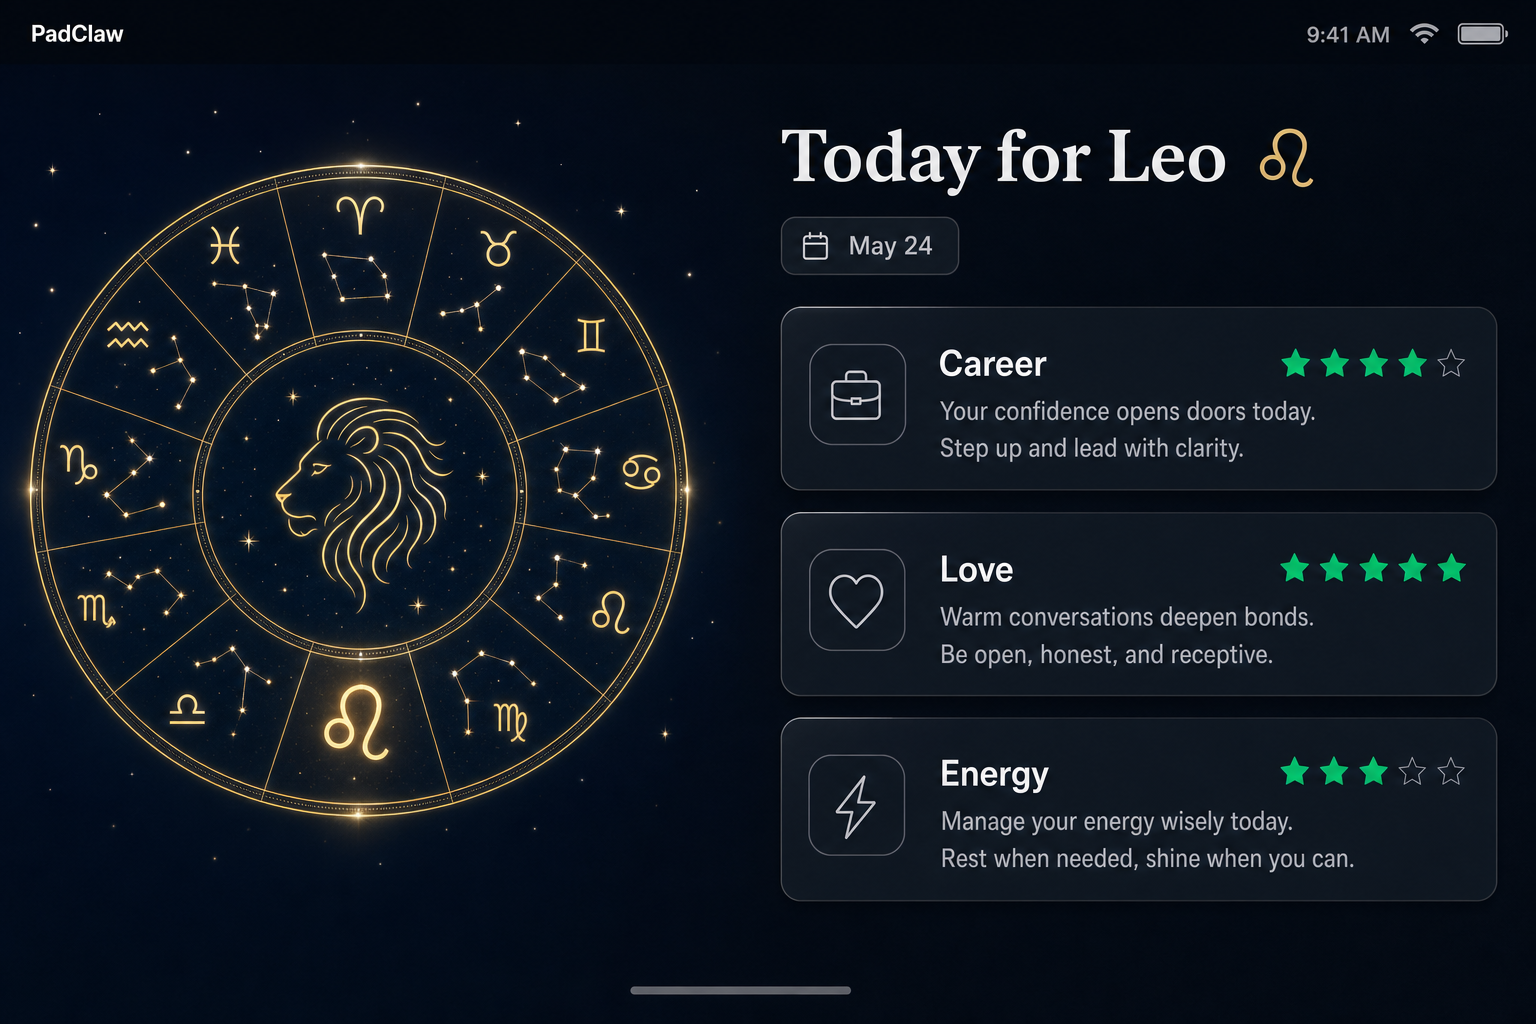
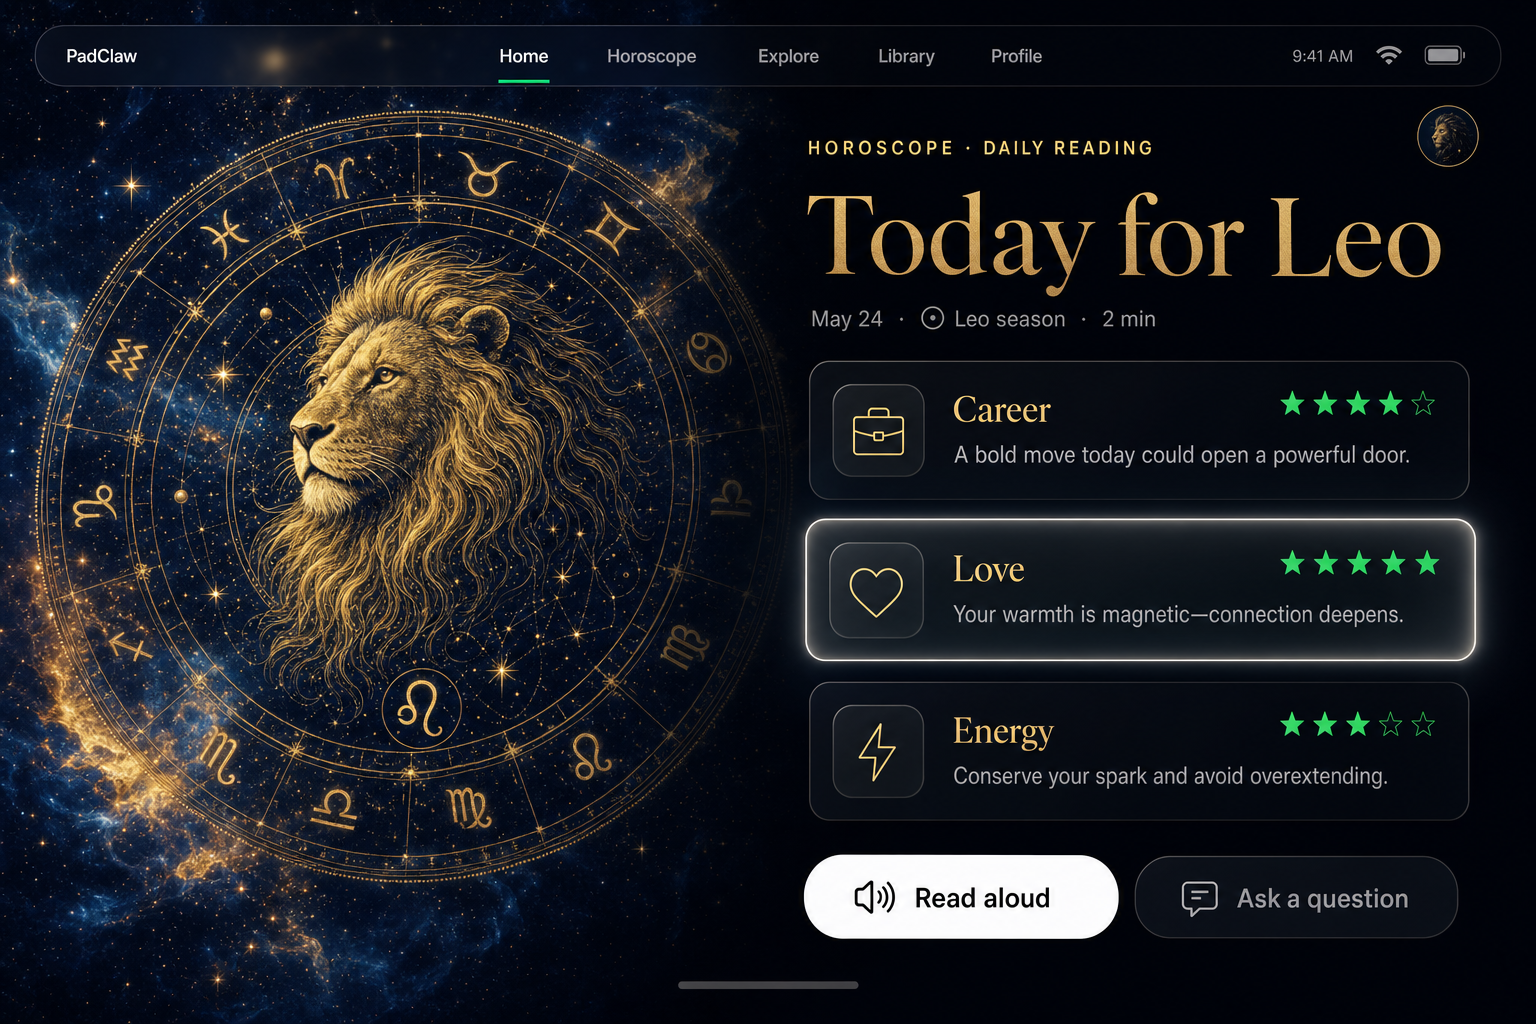
Rebuild browsing surfaces in Netflix/tvOS design language
- ui-launcher: cinematic billboard (featured morning briefing) + YOUR CHANNELS
  shelf with tvOS focus treatment + frosted tab bar + COMING SOON row peek
- ui-launcher-focus (new, 15th screen): focus-interaction spec — 112% scale,
  specular edge, revealed metadata, ambient gold glow response
- ui-astro-daily / ui-weather-brief / ui-learning-home: full-bleed artwork,
  gradient scrims, glass cards, hourly shelf with focus underline
- 2 screens regenerated after first pass drifted into movie-streaming content
  (fake film billboard, Movies/Live TV tabs) — brand rule enforced in prompts
- Design tokens: new Focus Model card (billboard/shelf/scrim/ambient specs,
  browsing-vs-task surface split)

diff --git a/app-screens.html b/app-screens.html
@@ -51,7 +51,7 @@
 <body>
 <div class="wrap">
   <h1>APP 介面與功能細節總覽</h1>
-  <p class="sub">PadClaw 裝置端軟體的 <strong>14 個核心畫面</strong>，以純 UI mockup 呈現（規劃中軟體 · planned software）。設計語言：深炭底 <strong>#111418</strong>、品牌綠 <strong>#05CE78</strong>、超大字級與大型觸控目標（senior-friendly）、每個畫面只做一件事。</p>
+  <p class="sub">PadClaw 裝置端軟體的 <strong>15 個核心畫面</strong>，以純 UI mockup 呈現（規劃中軟體 · planned software）。設計語言分兩層：<strong>瀏覽型畫面比照 Netflix／Apple tvOS</strong>（billboard 大看板、shelf 卡列、焦點放大＋高光的 focus model、毛玻璃 chrome），<strong>任務型畫面</strong>維持深炭底、品牌綠 <strong>#05CE78</strong>、超大字級的單任務設計（senior-friendly）。</p>
   <div class="toc">
     <a href="#s-ds">設計規範</a>
     <a href="#s-core">01 系統核心</a>
@@ -101,6 +101,17 @@
         </table>
       </div>
       <div class="ds-card">
+        <h4>Focus Model（比照 tvOS / 串流平台）</h4>
+        <table>
+          <tr><td>焦點卡</td><td>放大 110% · 2px 白色高光邊 · 深柔陰影＋微光暈；鄰卡降至 70% 亮度並輕微去飽和</td></tr>
+          <tr><td>Billboard</td><td>首頁頂部 55% 為全幅大看板：作品級圖像＋左下漸層 scrim 承載標籤／標題／主按鈕</td></tr>
+          <tr><td>Shelf</td><td>橫向卡列 · 13px ALL-CAPS 列標題 · 內容圖像即介面，chrome 退居半透明</td></tr>
+          <tr><td>Scrim</td><td>圖上文字一律墊底部黑色漸層；頂部 tab 列用毛玻璃</td></tr>
+          <tr><td>Ambient glow</td><td>背景隨焦點內容染色（tvOS ambient 反應）</td></tr>
+          <tr><td>適用範圍</td><td><strong>瀏覽型畫面</strong>（launcher／頻道首頁）用串流語言；<strong>任務型畫面</strong>（簽到／用藥／隱私）維持大字單任務——不做成海報牆</td></tr>
+        </table>
+      </div>
+      <div class="ds-card">
         <h4>Principles</h4>
         <table>
           <tr><td>一屏一事</td><td>每畫面只有一個主要動作；永不出現第二層選單</td></tr>
@@ -121,7 +132,7 @@
     <div class="screen">
       <div class="scr-media"><div class="frame"><img loading="lazy" src="web-ui-welcome.jpg" alt="Welcome screen"></div></div>
       <div class="scr-copy">
-        <div class="scr-kicker">Core 1/5 · 首次開機</div>
+        <div class="scr-kicker">Core 1/6 · 首次開機</div>
         <h3>Welcome — 唯一的設定畫面</h3>
         <ul>
           <li><strong>一句話設定</strong>：插電後顯示「Hi, Barbara!」與單一按鈕「Say hello to begin」，說一聲哈囉即完成啟用</li>
@@ -134,13 +145,27 @@
     <div class="screen flip">
       <div class="scr-media"><div class="frame"><img loading="lazy" src="web-ui-launcher.jpg" alt="Channel launcher"></div></div>
       <div class="scr-copy">
-        <div class="scr-kicker">Core 2/5 · 主畫面</div>
-        <h3>Channel Launcher — 頻道式首頁</h3>
+        <div class="scr-kicker">Core 2/6 · 主畫面</div>
+        <h3>Channel Launcher — Billboard＋Shelf 首頁</h3>
         <ul>
-          <li><strong>四張頻道大磁貼</strong>（Health／Horoscope／Weather／Learning），像串流電視首頁，焦點磁貼帶綠色高亮環</li>
-          <li><strong>個人化問候列</strong>：依時段顯示「Good morning, Sarah」＋日期＋天氣 chip</li>
-          <li><strong>Coming soon 列</strong>：未來頻道（Recipes／Stories／Finance）以降暗磁貼預告，OTA 免費解鎖</li>
-          <li>無 app 抽屜、無資料夾、無徽章數字</li>
+          <li><strong>Billboard 大看板</strong>（上 55%）：當下最相關的內容當主角——早晨即天氣簡報，scrim 上承載 FEATURED 標籤、標題與 Open 主按鈕</li>
+          <li><strong>YOUR CHANNELS shelf</strong>：四張作品級橫卡，焦點卡放大＋白色高光邊＋鄰卡降暗（tvOS focus model）</li>
+          <li><strong>毛玻璃頂部 tab 列</strong>：Home／Channels／Family／Settings＋個人頭像</li>
+          <li><strong>COMING SOON 列</strong>於畫面底緣露出一角——暗示可下捲，未來頻道 OTA 免費解鎖</li>
+        </ul>
+      </div>
+    </div>
+
+    <div class="screen flip">
+      <div class="scr-media"><div class="frame"><img loading="lazy" src="web-ui-launcher-focus.jpg" alt="Focus state — Horoscope card focused"></div></div>
+      <div class="scr-copy">
+        <div class="scr-kicker">Core 3/6 · 焦點狀態</div>
+        <h3>Focus State — 焦點互動示範</h3>
+        <ul>
+          <li><strong>焦點移到 Horoscope</strong>：卡片放大 112%、白色高光邊、深柔陰影、藝術圖上有 parallax 光澤掃過</li>
+          <li><strong>metadata 浮現</strong>：焦點卡下方出現「Today for Leo · 2 min read」與綠色底線</li>
+          <li><strong>環境反應</strong>：背景 ambient glow 隨焦點內容轉為暖金色、billboard 降暗讓位——與 tvOS 行為一致</li>
+          <li>此畫面供設計師理解互動規格，非獨立頁面（註：草稿中 billboard 溫度誤為 °C，正式稿一律用 °F）</li>
         </ul>
       </div>
     </div>
@@ -148,7 +173,7 @@
     <div class="screen">
       <div class="scr-media"><div class="frame"><img loading="lazy" src="web-ui-voice.jpg" alt="Voice overlay"></div></div>
       <div class="scr-copy">
-        <div class="scr-kicker">Core 3/5 · 語音</div>
+        <div class="scr-kicker">Core 4/6 · 語音</div>
         <h3>Voice Overlay — 跨房間語音</h3>
         <ul>
           <li><strong>遠場收音</strong>：雙麥克風陣列，煮菜時隔著流理台喊即可</li>
@@ -161,7 +186,7 @@
     <div class="screen flip">
       <div class="scr-media"><div class="frame"><img loading="lazy" src="web-ui-night.jpg" alt="Night mode"></div></div>
       <div class="scr-copy">
-        <div class="scr-kicker">Core 4/5 · 夜間模式</div>
+        <div class="scr-kicker">Core 5/6 · 夜間模式</div>
         <h3>Night Mode — Tomorrow 簡報</h3>
         <ul>
           <li><strong>日落後自動降到耳語亮度</strong>，色溫轉暖、藍光最小化</li>
@@ -174,7 +199,7 @@
     <div class="screen">
       <div class="scr-media"><div class="frame"><img loading="lazy" src="web-ui-privacy.jpg" alt="Privacy sharing"></div></div>
       <div class="scr-copy">
-        <div class="scr-kicker">Core 5/5 · 隱私</div>
+        <div class="scr-kicker">Core 6/6 · 隱私</div>
         <h3>Sharing &amp; Privacy — 尊嚴設計</h3>
         <ul>
           <li><strong>被分享者看得到分享內容</strong>：「What Emily can see」逐項列出，Everything else 永遠標示 Never shared</li>
@@ -253,12 +278,12 @@
       <div class="scr-media"><div class="frame"><img loading="lazy" src="web-ui-astro-daily.jpg" alt="Daily reading"></div></div>
       <div class="scr-copy">
         <div class="scr-kicker">Horoscope 2/2 · 每日讀本</div>
-        <h3>Today for Leo — 每日運勢</h3>
+        <h3>Today for Leo — 串流級頻道頁</h3>
         <ul>
-          <li><strong>金色星盤視覺</strong>：本命盤＋當日行運的即時繪製，不是裝飾圖</li>
-          <li><strong>Career／Love／Energy 三卡</strong>：各兩行讀本＋五星能量指標</li>
-          <li><strong>語氣可調</strong>：從「cosmic」到「practical」，由 AI 依當日星象重新撰寫，永不重複</li>
-          <li>可語音追問：「為什麼今天適合談判？」</li>
+          <li><strong>全幅星空 billboard</strong>：金線星盤藝術圖佔滿背景，右側黑色 scrim 承載內容——像串流平台的作品頁</li>
+          <li><strong>metadata 列</strong>：「May 24 · ☉ Leo season · 2 min」，閱讀時長比照影片時長的資訊習慣</li>
+          <li><strong>毛玻璃讀本卡 × 3</strong>：Career／Love／Energy，20% 透明度＋hairline 邊框＋五星能量指標</li>
+          <li><strong>Read aloud 主按鈕</strong>＋「Ask a question」次按鈕：可語音追問「為什麼今天適合談判？」</li>
         </ul>
       </div>
     </div>
@@ -273,12 +298,12 @@
       <div class="scr-media"><div class="frame"><img loading="lazy" src="web-ui-weather-brief.jpg" alt="Weather briefing"></div></div>
       <div class="scr-copy">
         <div class="scr-kicker">Weather 1/1 · 晨間簡報</div>
-        <h3>Morning Briefing — 四合一決策畫面</h3>
+        <h3>Morning Briefing — 電影感全幅天氣頁</h3>
         <ul>
-          <li><strong>巨型溫度＋城市</strong>：三公尺外可讀（玄關情境）</li>
-          <li><strong>行動建議卡</strong>：「Rain at 8 AM — take an umbrella」，把預報翻譯成動作</li>
-          <li><strong>逐時強度條</strong>：7AM–1PM 每小時圖示與溫度</li>
-          <li><strong>通勤卡</strong>「Leave by 8:10 · 24 min」＋<strong>穿搭卡</strong>「Light jacket weather」——學校路線與週末行程納入運算</li>
+          <li><strong>實況即背景</strong>：整頁是西雅圖雨雲天際線的全幅動態藝術圖——天氣本身就是 billboard（Apple TV 作品頁的資訊結構）</li>
+          <li><strong>176px 超細體溫度</strong>疊在 scrim 上，三公尺外可讀（玄關情境）</li>
+          <li><strong>毛玻璃行動卡</strong>：「Rain at 8 AM — take an umbrella」，把預報翻譯成動作</li>
+          <li><strong>毛玻璃逐時 shelf</strong>（8AM 帶綠色焦點底線）＋通勤卡「Leave by 8:10」＋穿搭卡「Light jacket weather」</li>
         </ul>
       </div>
     </div>
@@ -293,11 +318,11 @@
       <div class="scr-media"><div class="frame"><img loading="lazy" src="web-ui-learning-home.jpg" alt="Learning home"></div></div>
       <div class="scr-copy">
         <div class="scr-kicker">Learning 1/3 · 頻道首頁</div>
-        <h3>Subject Picker — 科目選擇</h3>
+        <h3>Subject Picker — 串流級學習首頁</h3>
         <ul>
-          <li><strong>四大科目卡</strong>：Math／Reading／Spanish／Science，各帶等級與進度條</li>
-          <li><strong>連續學習 streak</strong>：正向激勵、無懲罰機制（斷了不歸零、不推播羞辱）</li>
-          <li><strong>Parent view</strong> 入口固定在角落——家長隨時可看，孩子知道家長看得到</li>
+          <li><strong>CONTINUE LEARNING billboard</strong>：像「繼續觀看」——上次的乘法練習配吉祥物藝術圖、72% 進度條與 Continue 主按鈕</li>
+          <li><strong>SUBJECTS shelf</strong>：四張直式科目卡（Netflix Kids 的卡列語言），焦點卡放大＋白色高光邊，各帶進度與百分比</li>
+          <li><strong>streak chip 與 Parent view</strong> 固定在毛玻璃頂列——家長隨時可看，孩子知道家長看得到；斷 streak 不歸零、不推播羞辱</li>
         </ul>
       </div>
     </div>
